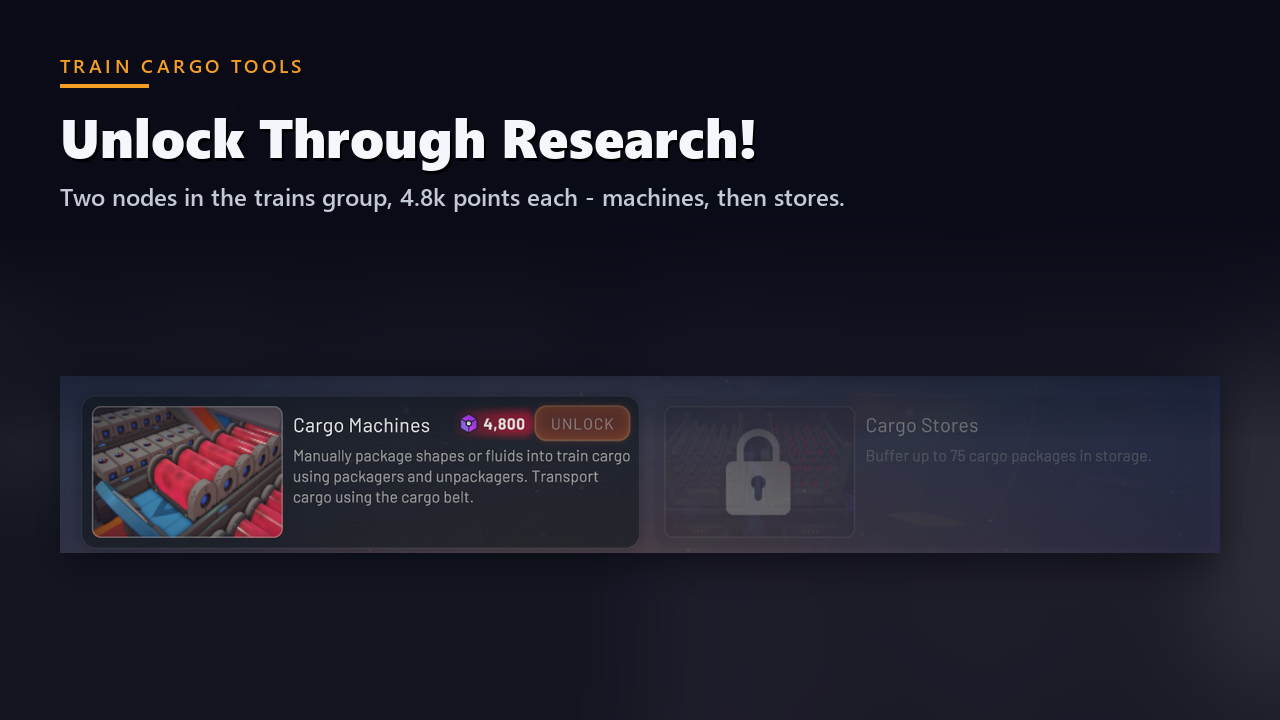
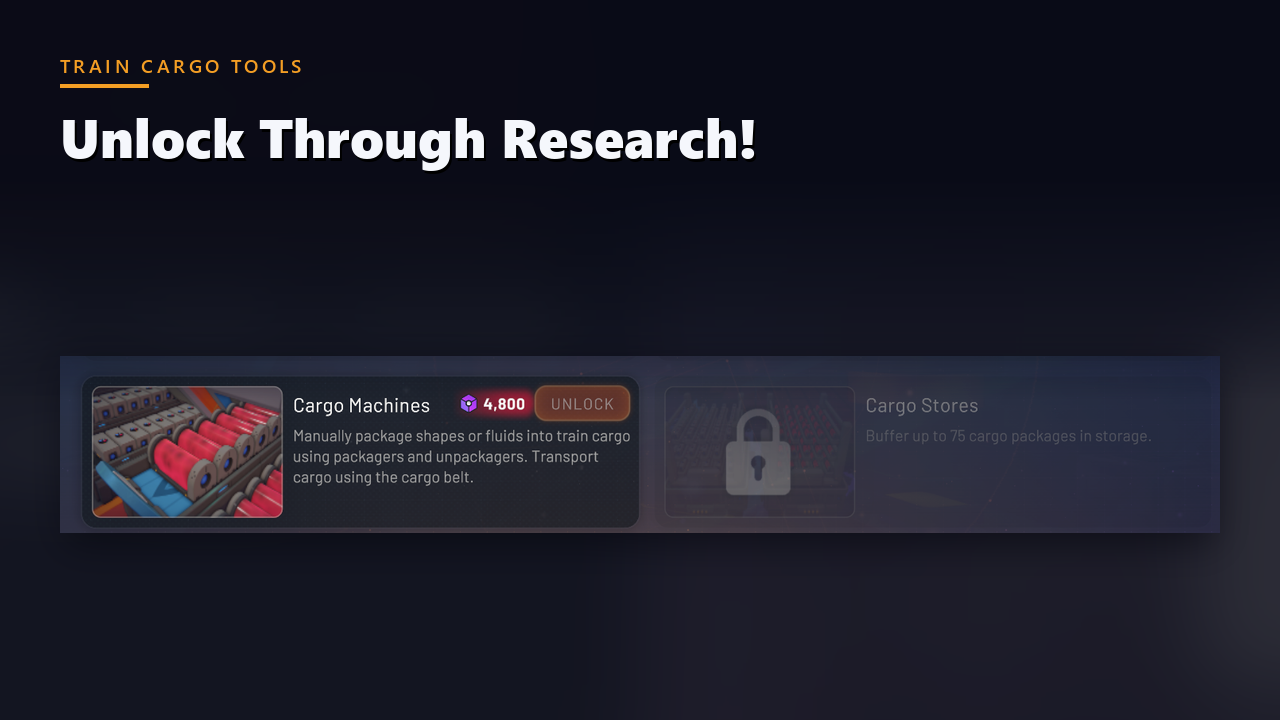
Headline only on the store images
The explanatory line under each headline is gone. A store page image is
read in about a second: a second line of prose is the part nobody reads
while being the part that makes the image look like a slide. The figures
it carried - 360 per container, 18x a space belt, 75 per store, 4.8k a
node - are all in the description already, which is where somebody who
wants them is looking.

The caption block shrinks with it, so the scrim is shallower and each
capture keeps more of itself.

Changed region(s): [[0.0312, 0.4889, 0.9688, 0.7944], [0.0625, 0.2444, 0.6562, 0.3056], [0.6875, 0.55, 0.9062, 0.6417]]

diff --git a/Shapez2-Train-Cargo-Tools/TrainCargoTools/Steam/make-promo.py b/Shapez2-Train-Cargo-Tools/TrainCargoTools/Steam/make-promo.py
@@ -32,7 +32,6 @@ PREVIEW = 640
 
 AMBER = (244, 158, 36)
 INK = (245, 247, 252)
-MUTED = (196, 201, 214)
 
 BLACK_FONT = r"C:\Windows\Fonts\seguibl.ttf"           # Segoe UI Black
 SEMI_FONT = r"C:\Windows\Fonts\seguisb.ttf"            # Segoe UI Semibold
@@ -123,17 +122,16 @@ def build_preview(source="cargo-line-alt.png", centre=0.5, out="preview.png"):
 # --------------------------------------------------------------------------- the promos
 
 
-def build(source, headline, subline, out, centre=0.5, zoom=1.0, place="bottom"):
+def build(source, headline, out, centre=0.5, zoom=1.0, place="bottom"):
     image = frame(source, WIDTH / float(HEIGHT), centre, zoom).resize(
         (WIDTH, HEIGHT), Image.LANCZOS)
 
     head = font(BLACK_FONT, 54)
-    sub = font(SEMI_FONT, 24)
     brow = font(SEMI_FONT, 19)
 
     lines = headline.split("\n")
-    LINE, GAP, MARGIN, LEFT = 62, 18, 52, 60
-    block = 48 + len(lines) * LINE + GAP + 30
+    LINE, MARGIN, LEFT = 62, 52, 60
+    block = 48 + len(lines) * LINE + 8
 
     if place == "top":
         top = MARGIN
@@ -153,13 +151,11 @@ def build(source, headline, subline, out, centre=0.5, zoom=1.0, place="bottom"):
         draw.text((LEFT, y), line, font=head, fill=INK)
         y += LINE
 
-    draw.text((LEFT, y + GAP), subline, font=sub, fill=MUTED)
-
     image.save(os.path.join(HERE, out), optimize=True)
     print("  wrote   %-26s %.0f KB" % (out, os.path.getsize(os.path.join(HERE, out)) / 1024))
 
 
-def build_wide(source, headline, subline, out, panel_width=1160):
+def build_wide(source, headline, out, panel_width=1160):
     """A capture far wider than 16:9, set into the frame rather than cropped to it.
 
     The research shop is a 1459x223 strip - six and a half to one. Cropping that to 16:9 either
@@ -186,7 +182,7 @@ def build_wide(source, headline, subline, out, panel_width=1160):
 
     # Centred in what is left under the caption block, not in the frame - otherwise the text
     # crowds it at the top and there is a hand's width of nothing at the bottom.
-    caption_bottom = 52 + 48 + 62 + 18 + 30
+    caption_bottom = 52 + 48 + 62 + 8
     py = caption_bottom + (HEIGHT - caption_bottom - panel_height) // 2
     px = (WIDTH - panel_width) // 2
 
@@ -199,7 +195,6 @@ def build_wide(source, headline, subline, out, panel_width=1160):
     ground.paste(panel, (px, py))
 
     head = font(BLACK_FONT, 54)
-    sub = font(SEMI_FONT, 24)
     brow = font(SEMI_FONT, 19)
 
     scrim(ground, caption_bottom + 10, caption_bottom + 230)
@@ -210,38 +205,32 @@ def build_wide(source, headline, subline, out, panel_width=1160):
 
     draw.text((62, 103), headline, font=head, fill=(0, 0, 0))
     draw.text((60, 100), headline, font=head, fill=INK)
-    draw.text((60, 180), subline, font=sub, fill=MUTED)
 
     ground.save(os.path.join(HERE, out), optimize=True)
     print("  wrote   %-26s %.0f KB" % (out, os.path.getsize(os.path.join(HERE, out)) / 1024))
 
 
-# The headlines are Quinn's. Each subline carries a figure this repo can show its working for -
-# see the throughput table in DESIGN.md - so the page says something as well as sells.
+# The headlines are Quinn's, and they are the whole caption. An explanatory line under each
+# went in first and came straight back out: a store page image is read in about a second, and a
+# second line of prose is the part nobody reads while being the part that makes the image look
+# like a slide. The figures it carried live in the description instead, which is where somebody
+# who wants them is already looking.
 #
-# Every caption sits at the bottom, which was not the plan - alternating top and bottom reads
-# less like a template - but in three of the four captures the machines are in the upper half
-# of the shot, and a scrim across the top covered the very thing being captioned. `centre`
-# then lifts each subject into the clear band above the text.
+# Placement is bottom on all four, which was not the plan - alternating top and bottom reads
+# less like a template - because in three of the four captures the machines sit in the upper
+# half, and a scrim across the top covered the very thing being captioned. `centre` then lifts
+# each subject into the clear band above the text.
 IMAGES = [
-    ("CargoPackagers.png",
-     "Create Cargo yourself!",
-     "360 shapes into one container, or 60 fluid. No train required.",
+    ("CargoPackagers.png", "Create Cargo yourself!",
      "promo-packagers.png", 0.38, 1.0, "bottom"),
 
-    ("TransportCargo.png",
-     "Move Cargo Anywhere",
-     "About 18x a space belt for shapes. Corners, junctions and lifts place themselves.",
+    ("TransportCargo.png", "Move Cargo Anywhere",
      "promo-transport.png", 0.42, 1.0, "bottom"),
 
-    ("CargoStorage.png",
-     "Store Excess Cargo!",
-     "75 containers per store - 25 on each floor, shapes and fluid in the same rack.",
+    ("CargoStorage.png", "Store Excess Cargo!",
      "promo-storage.png", 0.40, 1.0, "bottom"),
 
-    ("CargoUnloaders.png",
-     "Unpackage on Demand!",
-     "Back onto a space belt or pipe, wherever you needed it.",
+    ("CargoUnloaders.png", "Unpackage on Demand!",
      "promo-unloaders.png", 0.40, 1.0, "bottom"),
 ]
 
@@ -251,10 +240,7 @@ if __name__ == "__main__":
 
     build_preview()
 
-    for source, headline, subline, out, centre, zoom, place in IMAGES:
-        build(source, headline, subline, out, centre, zoom, place)
+    for source, headline, out, centre, zoom, place in IMAGES:
+        build(source, headline, out, centre, zoom, place)
 
-    build_wide("CargoResearch.png",
-               "Unlock Through Research!",
-               "Two nodes in the trains group, 4.8k points each - machines, then stores.",
-               "promo-research.png")
+    build_wide("CargoResearch.png", "Unlock Through Research!", "promo-research.png")

diff --git a/Shapez2-Train-Cargo-Tools/DESIGN.md b/Shapez2-Train-Cargo-Tools/DESIGN.md
@@ -2024,6 +2024,11 @@ Two things worth keeping from the composition pass:
   the four captures the machines sit in the upper half, and a scrim across the top covered the
   very thing being captioned. Each image gets a `centre` that lifts its subject into the clear
   band instead.
+- **The headline is the whole caption.** An explanatory line under each went in first and came
+  straight back out. A store page image is read in about a second: a second line of prose is
+  the part nobody reads while being the part that makes the image look like a slide. The
+  figures it carried live in the description instead, which is where somebody who wants them is
+  already looking.
 - **A capture far wider than 16:9 gets set into the frame, not cropped to it.** The research
   shop is 1459x223 - six and a half to one. Cropping that to 16:9 either throws away both ends,
   which is where the two nodes are, or scales it until the text in it cannot be read. It is
